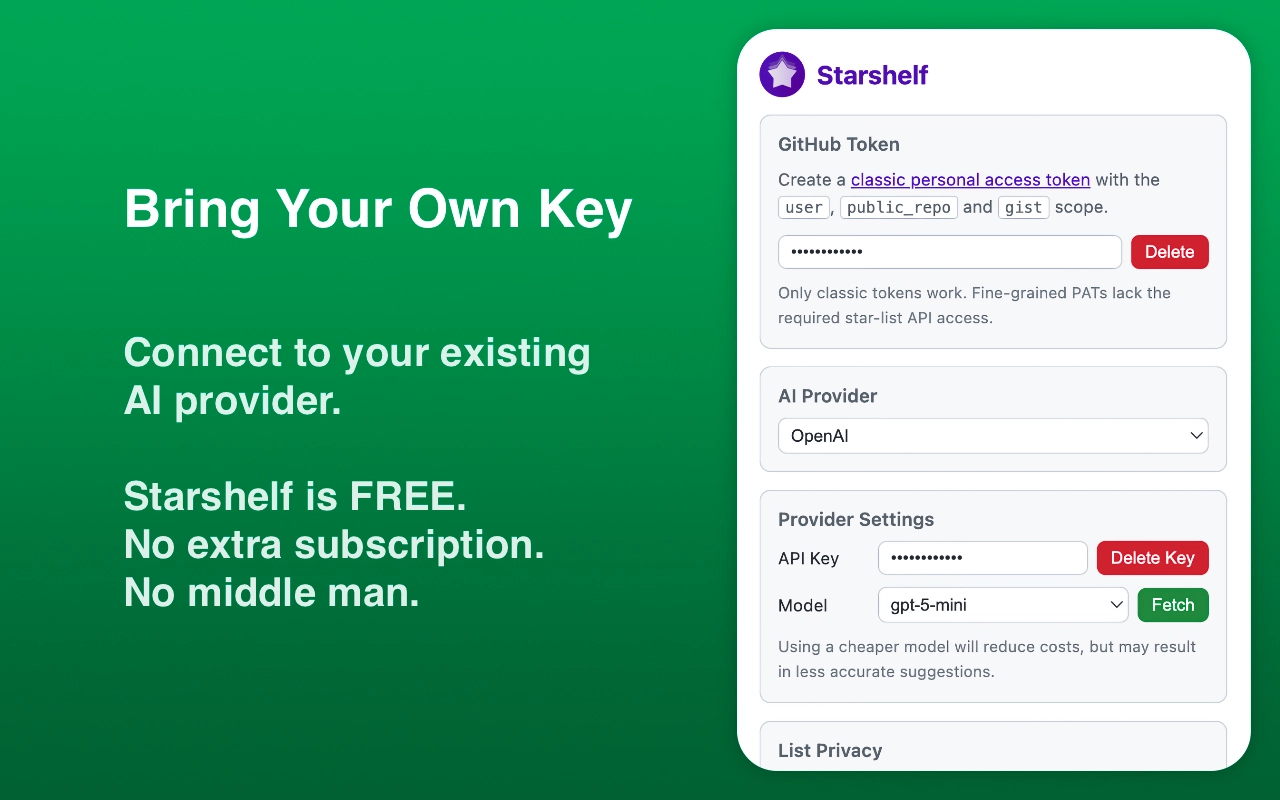
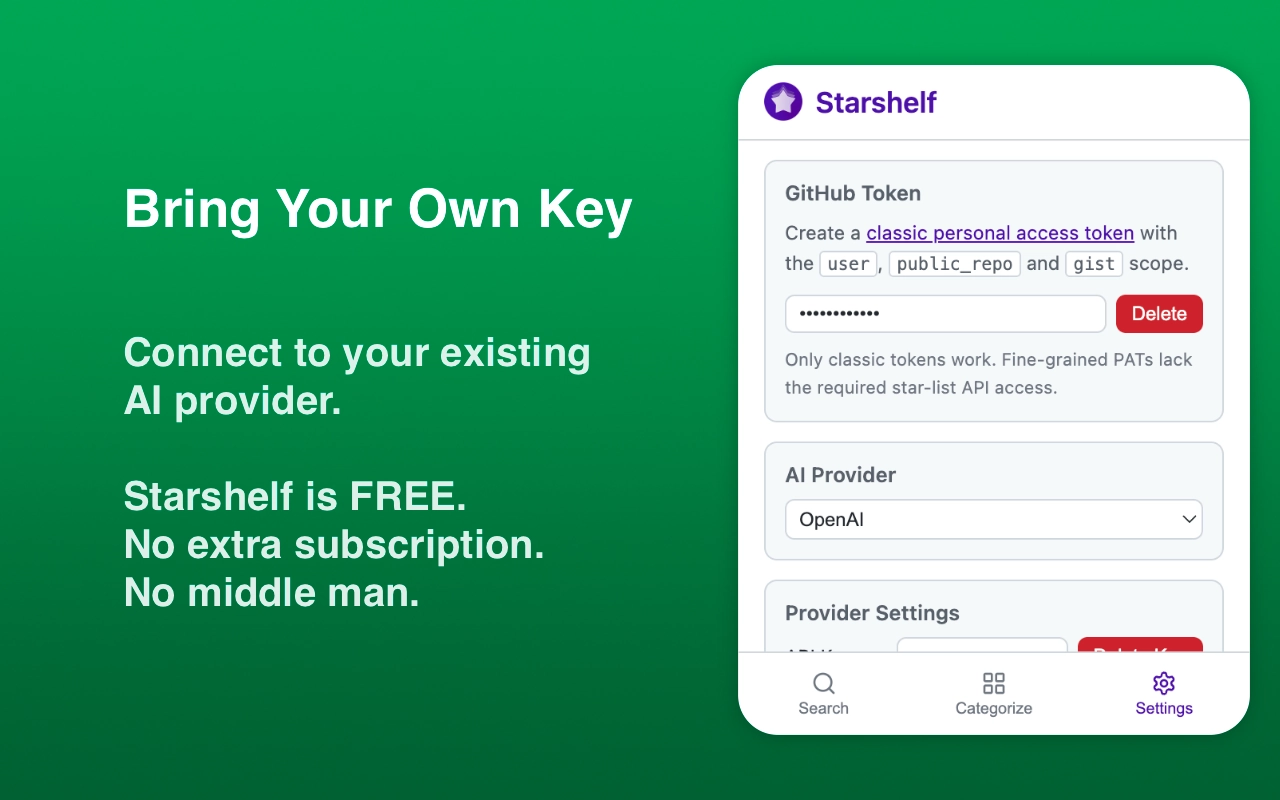
chore: update readme

Changed region(s): [[0.5625, 0.2188, 1.0, 0.9688], [0.5625, 0.0312, 1.0, 0.1875]]

diff --git a/README.md b/README.md
@@ -56,7 +56,10 @@ GitHub stars pile up fast. Before you know it you have hundreds of repos and no 
       <a href="media/screenshots/screen-3.webp"><img src="./media/screenshots/screen-3.webp" alt="Shelving into the right category" width="100%"></a>
     </td>
     <td width="25%" align="center" valign="middle">
-      <a href="media/screenshots/screen-4.webp"><img src="./media/screenshots/screen-4.webp" alt="Your stars, finally organized" width="100%"></a>
+      <a href="media/screenshots/screen-4.webp"><img src="./media/screenshots/screen-4.webp" alt="Search your stars" width="100%"></a>
+    </td>
+    <td width="25%" align="center" valign="middle">
+      <a href="media/screenshots/screen-5.webp"><img src="./media/screenshots/screen-5.webp" alt="Your stars, finally organized" width="100%"></a>
     </td>
   </tr>
 </table>
@@ -65,6 +68,7 @@ GitHub stars pile up fast. Before you know it you have hundreds of repos and no 
 
 - **Star-and-forget**: detects star clicks on GitHub and categorizes repos automatically
 - **Batch categorize**: classify all starred repos at once with session-backed progress tracking
+- **Search your stars**: filter and find starred repositories by name, description, or language
 - **Multi-provider AI**: Anthropic, OpenAI, or OpenCode — bring your own API key
 - **Instant overlay**: category label appears on the page right after starring
 - **Regenerate categories**: re-categorize already-assigned repos without clearing existing assignments
@@ -87,7 +91,7 @@ bun install
 ### ✅ Requirements
 
 - [Bun](https://bun.sh) v1.0+
-- Chromium-based browser (Chrome, Edge, Brave, Arc, etc.)
+- Chromium-based browser (Chrome, Edge, Brave, Arc, etc.) or Firefox
 
 ## 🚀 Usage
 
@@ -111,7 +115,6 @@ For a full list of commands (Firefox builds, testing, formatting), see [CONTRIBU
 | Permission                                                           | Why                                       |
 | -------------------------------------------------------------------- | ----------------------------------------- |
 | `storage`                                                            | Persist settings and categorizations      |
-| `activeTab`                                                          | Verify sender tab context                 |
 | `https://github.com/*`                                               | Content script injection + repo detection |
 | `https://api.github.com/*`                                           | GitHub API: lists, starring, repo lookups |
 | `https://api.anthropic.com/*` / `api.openai.com/*` / `opencode.ai/*` | AI provider API calls                     |